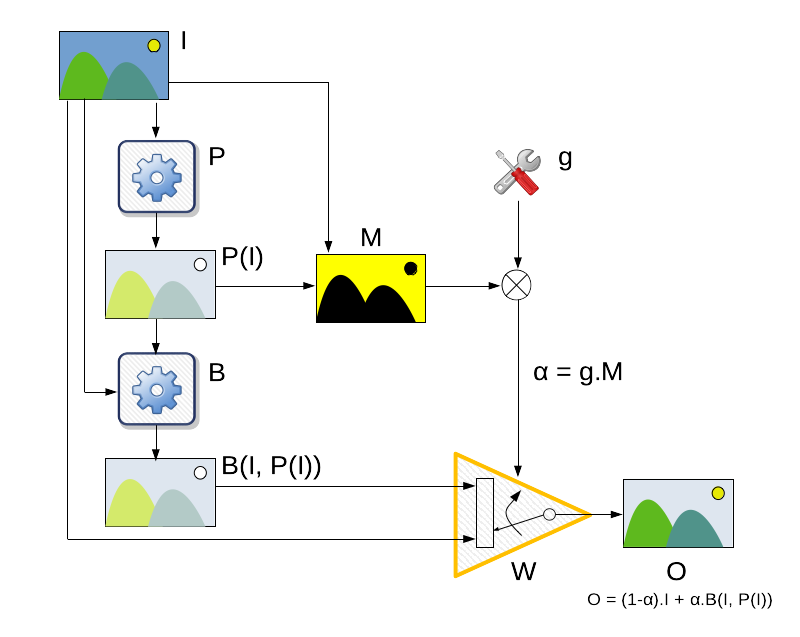
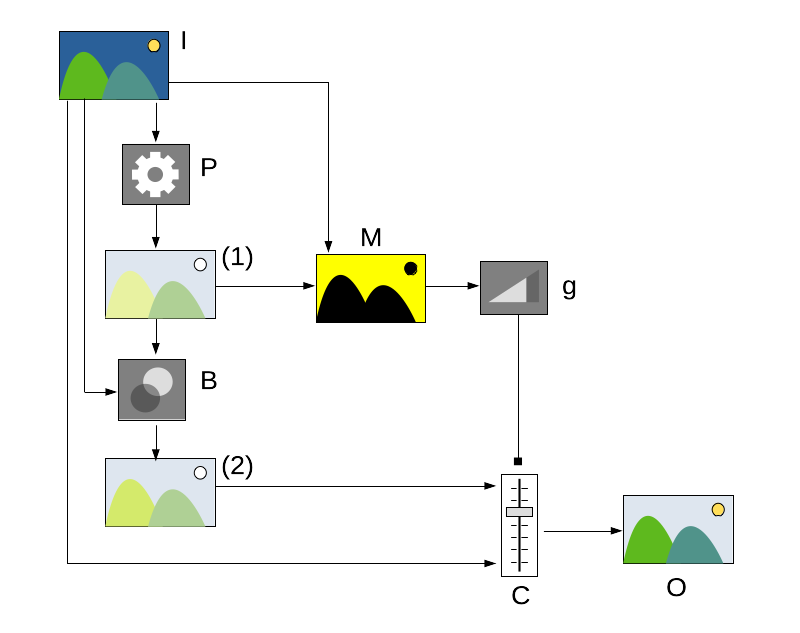
simplify blending diagram and eliminate clipart

diff --git a/content/darkroom/masking-and-blending/overview.md b/content/darkroom/masking-and-blending/overview.md
@@ -15,21 +15,21 @@ The basic flow for blending and masking is as follows:
 
 1. An input image _I_ is presented to a processing module _P_ in the darktable pixel pipeline.
 
-2. The processing module performs its normal work, and produces an intermediate processed image _P(I)_.
+2. The processing module performs its normal work, and produces an intermediate processed image _(1)_.
 
-3. The processed image is run through a blending algorithm _B(I, P(I))_, which takes the output of the _P_ module and blends it in some way with the input image, depending on the blending mode. The simplest blending mode is to simply make a copy of the intermediate processed image, ignoring the input image in the process. Other options are things like doing a multiplication for each pixel in the input and intermadiate processed image, taking an average between the input and output image, and so forth. Refer to the [blend modes](./blend-modes.md) section for description of blending operators.
+3. The processed image is run through a blending algorithm _B_, which takes the output of the _P_ module and blends it in some way with the input image to produce an output image _(2). The method of blending the input image with _(1)_ depends on the [_blending mode_](./blend-modes.md). The simplest and default blending mode is to simply make a copy of the intermediate processed image _(1)_, ignoring the input image altogether. Other options are things like doing a multiplication for each pixel in the input and intermadiate processed image, taking an average between the input and output image, and so forth.
 
 4. A mask _M_ can be specified by the user in order to narrow down which parts of the image will be affected by the module processing. A [_drawn mask_](./masks/drawn.md) can be used where shapes are drawn out on top of the image to identify which areas should be processed, and which areas should be excluded from processing.
 
-   The mask can also be defined by specifying some property of the pixels in the image (such as hue, brightness, etc.) and chhosing a range of values for that property to define which pixels should be included or excluded from the mask. This is known as a [_parametric mask_](./masks/parametric.md). Normally it is the values for the pixels in the input image _I_ that are used as the basis for this selection, but it is also possible to use the values of pixels in the intermediate processed image _P(I)_ for the purpose of this selection.
+   The mask can also be defined by specifying some property of the pixels in the image (such as hue, brightness, etc.) and chhosing a range of values for that property to define which pixels should be included or excluded from the mask. This is known as a [_parametric mask_](./masks/parametric.md). Normally it is the values for the pixels in the input image _I_ that are used as the basis for building the mask by using the _input_ slider on the parameteric mask tab, but it is also possible to use the values of pixels from the intermediate processed image _(2)_ using the _output_ slider.
 
-   It is even possible to combine these two methods, so that only pixels falling inside or outside a drawn shape are considered for selection by the parametric mask. This is called a [_drawn and parametric mask_](./masks/drawn-and-parametric.md).
+   It is even possible to combine the parameteric and drawn mask methods, so that only pixels falling inside or outside a drawn shape are considered for selection by the parametric mask. This is called a [_drawn and parametric mask_](./masks/drawn-and-parametric.md).
 
    Once you have defined a mask, it can be made visible so you can see which parts of the final image will be processed (the parts highlightedin _yellow_), versus the parts that will remain unprocessed (the non-yellow bits).
 
 5. There is an overall opacity slider _g_ which weakens the mask so that more of the original unprocessed image will show through in areas selected by the mask for image processing. This _opacity_ parameter, having a value between 0% and 100%. Typically an opacity of 0% outputs an image which is identical to the input image (the module has no effect) whereas an opacity of 100% delivers the maximum effect of the module and blending mode.
 
-6. The output of the blender _B(I, P(I))_ and the original input image _I_ are added together in a final mixer _W_ as a weighted sum, where the weighting towards original image versus the processed/blended image depends on the mask level _M_ and the overall opacity paremeter _g_. This mixing operation produces the final image _O_ that will be passed on to the next module.
+6. The output of the blender _(2)_ and the original input image _I_ are added together in a final mixer _W_ as a weighted sum, where the weighting towards original image versus the processed/blended image depends on the mask level _M_ and the overall opacity paremeter _g_. This mixing operation produces the final image _O_ that will be passed on to the next module.
 
 Blending and masking functionality is controlled via a group of icons located at the bottom of each applicable module. 
 
